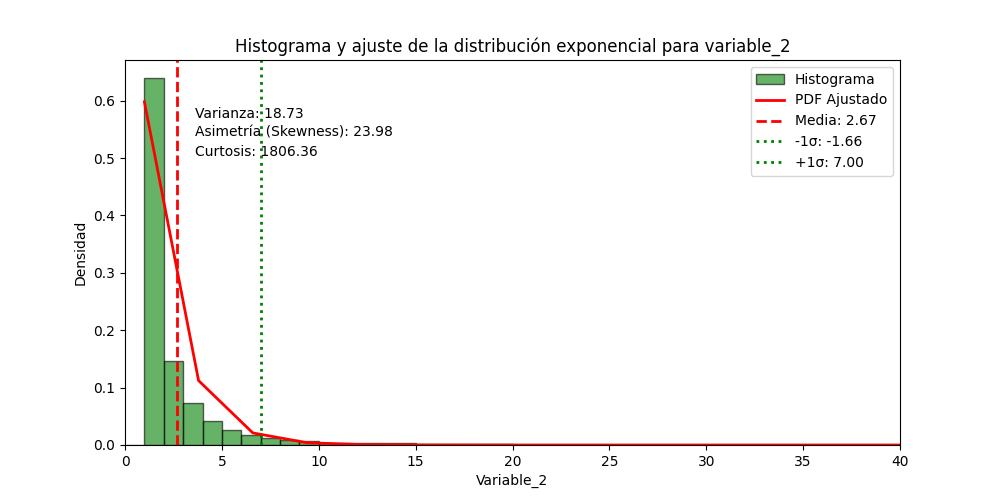
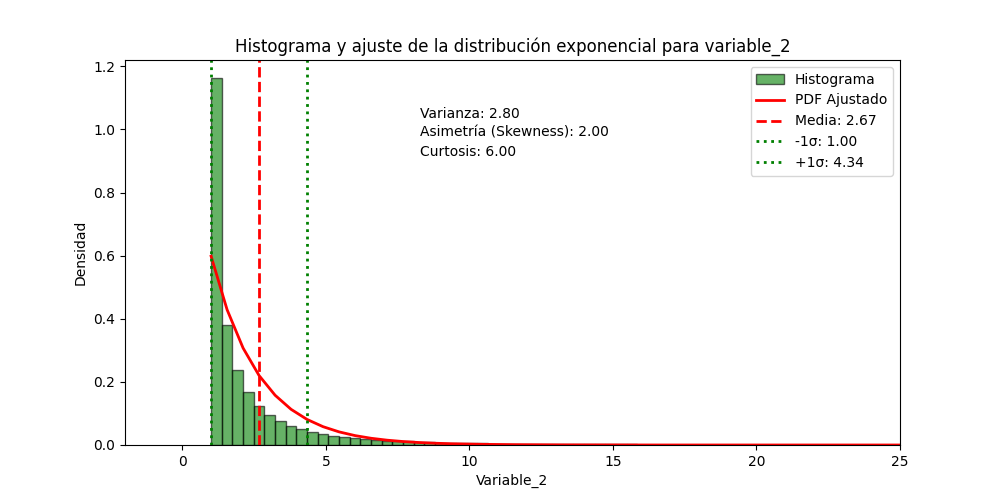
Cambios en el código de momentos

diff --git a/src/momentos.py b/src/momentos.py
@@ -11,21 +11,42 @@ data = pd.read_sql_query("SELECT * FROM test_data", conn)
 
 # 1. Visualizar histograma de variable_1 con marcas de momentos
 def visualizar_histograma_var1():
+    """
+    Genera un histograma de los datos de 'variable_1' con líneas
+    marcando la media y una desviación estándar (por encima y por
+    debajo de la media). Además, guarda la imagen generada en formato PNG.
+
+    Parámetros:
+    -----------
+    Ninguno. Los datos son tomados directamente de la variable 'data' global.
+
+    Salida:
+    -------
+    Muestra un gráfico del histograma de 'variable_1' y guarda la imagen como
+    "src/img/histograma_variable_1_con_momentos.png".
+    """
+
+    # Obtener los datos de variable_1
     variable_1 = data["variable_1"]
-    # Calcular momentos
+
+    # Calcular la media y desviación estándar de los datos
     media = np.mean(variable_1)
     desviacion_estandar = np.std(variable_1)
 
-    plt.figure(figsize=(6, 5))
+    # Crear la figura
+    plt.figure(figsize=(10, 5))
 
-    # Histograma de variable_1
+    # Generar el histograma de variable_1
     plt.hist(
         variable_1,
-        bins=50,
-        density=True,
-        alpha=0.6,
-        color="blue",
-        edgecolor='black')
+        bins=100,           # Número de barras en el histograma
+        density=True,       # Normalización para que el área total sea 1
+        alpha=0.6,          # Transparencia
+        color="blue",       # Color de las barras
+        edgecolor='black'   # Color del borde de las barras
+    )
+
+    # Título y etiquetas del gráfico
     plt.title("Histograma de variable_1")
     plt.xlabel("Variable_1")
     plt.ylabel("Densidad")
@@ -35,6 +56,7 @@ def visualizar_histograma_var1():
         media, color="r", linestyle="dashed", linewidth=2,
         label=f"Media: {media:.2f}"
     )
+
     # Marcar la desviación estándar (una por cada lado de la media)
     plt.axvline(
         media - desviacion_estandar,
@@ -50,32 +72,59 @@ def visualizar_histograma_var1():
     # Añadir la leyenda
     plt.legend()
 
-    # Guardar la imagen del histograma de variable_1
+    # Guardar la imagen generada
     plt.savefig("src/img/histograma_variable_1_con_momentos.png")
+
+    # Mostrar el gráfico
     plt.show()
 
 
-# 2. Visualizar histograma de variable_2 con marcas de momentos
+# 2. Visualizar histograma de variable_2 con ajuste a distribución exponencial
 def visualizar_histograma_var2():
+    """
+    Genera un histograma de los datos de 'variable_2' con un ajuste de
+    distribución exponencial. Marca la media y una desviación estándar
+    (por encima y por debajo de la media).
+    Además, guarda la imagen generada en formato PNG.
+
+    Parámetros:
+    -----------
+    Ninguno. Los datos son tomados directamente de la variable 'data' global.
+
+    Salida:
+    -------
+    Muestra un gráfico del histograma de 'variable_2' y guarda la imagen como
+    "src/img/histograma_variable_2_con_momentos.png".
+    """
+
+    # Obtener los datos de variable_2
     variable_2 = data["variable_2"]
 
-    # Calcular momentos
-    media = np.mean(variable_2)
-    desviacion_estandar = np.std(variable_2)
+    # Ajustar la distribución exponencial a los datos
+    params = expon.fit(variable_2)
 
-    plt.figure(figsize=(6, 5))
-    # Definir los límites de los bins
-    bins = [0, 1, 2, 3, 4, 5, 6, 7, 8, 9, 10, 15, 20, 30]
-    # Histograma de variable_2
+    # Calcular momentos teóricos (media y varianza) de la distribución ajustada
+    media, varianza = expon.stats(*params, moments='mv')
+
+    # Desviación estándar es la raíz cuadrada de la varianza
+    desviacion_estandar = np.sqrt(varianza)
+
+    # Crear la figura
+    plt.figure(figsize=(10, 5))
+
+    # Generar el histograma de variable_2
     plt.hist(
         variable_2,
-        bins=bins,
-        density=True,
-        alpha=0.6,
-        color="green",
-        edgecolor='black')
+        bins=1500,          # Número de barras en el histograma
+        density=True,       # Normalización para que el área total sea 1
+        alpha=0.6,          # Transparencia
+        color="green",      # Color de las barras
+        edgecolor='black'   # Color del borde de las barras
+    )
+
+    # Título y etiquetas del gráfico
     plt.title("Histograma de variable_2")
-    plt.xlim(0, 40)
+    plt.xlim(-2, 25)        # Límite del eje x
     plt.xlabel("Variable_2")
     plt.ylabel("Densidad")
 
@@ -84,7 +133,8 @@ def visualizar_histograma_var2():
         media, color="r", linestyle="dashed", linewidth=2,
         label=f"Media: {media:.2f}"
     )
-    # Marcar la desviación estándar
+
+    # Marcar la desviación estándar (una por cada lado de la media)
     plt.axvline(
         media - desviacion_estandar,
         color="g", linestyle="dotted", linewidth=2,
@@ -99,31 +149,44 @@ def visualizar_histograma_var2():
     # Añadir la leyenda
     plt.legend()
 
-    # Guardar la imagen del histograma de variable_2
+    # Guardar la imagen generada
     plt.savefig("src/img/histograma_variable_2_con_momentos.png")
+
+    # Mostrar el gráfico
     plt.show()
 
 
 # 3. Ajuste de modelos para variable_1 (distribución normal)
 # con marcas de momentos.
 def modelosVar1():
+    """
+    Ajusta un modelo de distribución normal a los datos de variable_1
+    y visualiza un histograma junto con la función de densidad
+    ajustada. Se marcan momentos estadísticos como la media,
+    la desviación estándar, la varianza, la asimetría y la curtosis.
+    """
     variable_1 = data["variable_1"]
+
+    # Ajustar la distribución normal a los datos de variable_1
     params = norm.fit(variable_1)
+
+    # Calcular momentos estadísticos
     media = np.mean(variable_1)
     desviacion_estandar = np.std(variable_1)
     varianza = np.var(variable_1)
     inclinacion = skew(variable_1)
     curtosis = kurtosis(variable_1)
 
+    # Generar un rango de valores x para la función de densidad
     x = np.linspace(variable_1.min(), variable_1.max(), 200)
 
-    # Se obtiene el ajuste
+    # Se obtiene la PDF ajustada para la distribución normal
     pdf = norm.pdf(x, *params)
 
-    # Gráfico del histograma y el ajuste PDF
+    # Gráfico del histograma y la PDF ajustada
     plt.figure(figsize=(10, 5))
     plt.hist(
-        variable_1, bins=50, density=True, alpha=0.6,
+        variable_1, bins=100, density=True, alpha=0.6,
         color="blue", label="Histograma", edgecolor="black"
     )
     plt.plot(x, pdf, "r-", lw=2, label="PDF Ajustado")
@@ -144,7 +207,7 @@ def modelosVar1():
         label=f"+1σ: {media + desviacion_estandar:.2f}"
     )
 
-    # Añadir información de varianza, inclinación y curtosis
+    # Añadir información de varianza, inclinación y curtosis al gráfico
     plt.text(
         0.05, 0.85, f"Varianza: {varianza:.2f}",
         transform=plt.gca().transAxes, fontsize=10
@@ -158,6 +221,7 @@ def modelosVar1():
         transform=plt.gca().transAxes, fontsize=10
     )
 
+    # Añadir título y etiquetas a los ejes
     plt.title("Histograma y ajuste de la distribución normal para variable_1")
     plt.xlabel("Variable_1")
     plt.ylabel("Densidad")
@@ -171,29 +235,39 @@ def modelosVar1():
 # 4. Ajuste de modelos para variable_2 (distribución exponencial)
 # con marcas de momentos.
 def modelosVar2():
+    """
+    Ajusta un modelo de distribución exponencial a los datos de variable_2
+    y visualiza un histograma junto con la función de densidad
+    ajustada. Se marcan momentos estadísticos como la media,
+    la desviación estándar, la varianza, la asimetría y la curtosis.
+    """
     variable_2 = data["variable_2"]
-    params = expon.fit(variable_2)
-    media = np.mean(variable_2)
-    desviacion_estandar = np.std(variable_2)
-    varianza = np.var(variable_2)
-    inclinacion = skew(variable_2)
-    curtosis = kurtosis(variable_2)
 
-    x = np.linspace(variable_2.min(), variable_2.max(), 200)
-    # Se obtiene el ajuste
+    # Ajustar la distribución exponencial a los datos
+    params = expon.fit(variable_2)
+
+    # Cálculos de los momentos teóricos a partir de la distribución ajustada
+    media, varianza, inclinacion, curtosis = expon.stats(
+        *params, moments='mvsk'
+    )
+
+    # Desviación estándar es la raíz cuadrada de la varianza
+    desviacion_estandar = np.sqrt(varianza)
+
+    # Definir los valores x para graficar la PDF ajustada
+    x = np.linspace(variable_2.min(), variable_2.max(), 1000)
+    # Se obtiene la PDF ajustada
     pdf = expon.pdf(x, *params)
 
-    # Gráfico del histograma y el ajuste PDF
-    # Definir los límites de los bins
-    bins = [0, 1, 2, 3, 4, 5, 6, 7, 8, 9, 10, 15, 20, 30]
+    # Gráfico del histograma y el ajuste de la PDF
     plt.figure(figsize=(10, 5))
     plt.hist(
-        variable_2, bins=bins, density=True, alpha=0.6,
+        variable_2, bins=1500, density=True, alpha=0.6,
         color="green", label="Histograma", edgecolor="black"
     )
     plt.plot(x, pdf, "r-", lw=2, label="PDF Ajustado")
 
-    # Marcar la media y la desviación estándar
+    # Marcar la media y la desviación estándar en el gráfico
     plt.axvline(
         media, color="r", linestyle="dashed", linewidth=2,
         label=f"Media: {media:.2f}"
@@ -209,25 +283,26 @@ def modelosVar2():
         label=f"+1σ: {media + desviacion_estandar:.2f}"
     )
 
-    # Añadir información de varianza, inclinación y curtosis
+    # Añadir información de varianza, inclinación y curtosis en el gráfico
     plt.text(
-        0.09, 0.85, f"Varianza: {varianza:.2f}",
+        0.38, 0.85, f"Varianza: {varianza:.2f}",
         transform=plt.gca().transAxes, fontsize=10
     )
     plt.text(
-        0.09, 0.80, f"Asimetría (Skewness): {inclinacion:.2f}",
+        0.38, 0.80, f"Asimetría (Skewness): {inclinacion:.2f}",
         transform=plt.gca().transAxes, fontsize=10
     )
     plt.text(
-        0.09, 0.75, f"Curtosis: {curtosis:.2f}",
+        0.38, 0.75, f"Curtosis: {curtosis:.2f}",
         transform=plt.gca().transAxes, fontsize=10
     )
 
+    # Añadir título y etiquetas a los ejes
     plt.title(
         "Histograma y ajuste de la distribución"
         " exponencial para variable_2"
     )
-    plt.xlim(0, 40)
+    plt.xlim(-2, 25)
     plt.xlabel("Variable_2")
     plt.ylabel("Densidad")
     plt.legend()
@@ -239,13 +314,24 @@ def modelosVar2():
 
 # 5. Calcular momentos (promedio, varianza,
 # desviación estándar, inclinación, kurtosis)
-def calcular_momentos(variable, nombre_variable):
+def calcular_momentos_var1(variable, nombre_variable):
+    """
+    Calcula y muestra los momentos estadísticos (media, varianza,
+    desviación estándar, asimetría y curtosis) de una variable dada.
+
+    Parameters:
+    variable: array-like
+        Datos de la variable para calcular los momentos.
+    nombre_variable: str
+        Nombre de la variable, utilizado para la salida en consola.
+    """
     media = np.mean(variable)
     varianza = np.var(variable)
     desviacion_estandar = np.std(variable)
     inclinacion = skew(variable)
     curtosis = kurtosis(variable)
 
+    # Imprimir los momentos calculados
     print(f"Momentos de {nombre_variable}:")
     print(f"Media: {media}")
     print(f"Varianza: {varianza}")
@@ -254,15 +340,64 @@ def calcular_momentos(variable, nombre_variable):
     print(f"Curtosis: {curtosis}\n")
 
 
-# 6. Ejecutar todo el programa
+# 6. Calcular momentos (promedio, varianza,
+# desviación estándar, inclinación, kurtosis)
+# para una distribución exponencial ajustada.
+def calcular_momentos_var2(variable, nombre_variable):
+    """
+    Calcula y muestra los momentos estadísticos (media, varianza,
+    desviación estándar, asimetría y curtosis) de una variable dada,
+    asumiendo que se ajusta a una distribución exponencial.
+
+    Parameters:
+    variable: array-like
+        Datos de la variable para calcular los momentos.
+    nombre_variable: str
+        Nombre de la variable, utilizado para la salida en consola.
+    """
+    # Ajustar la distribución exponencial a los datos
+    params = expon.fit(variable)
+
+    # Obtener los momentos de la distribución exponencial ajustada
+    media, varianza, inclinacion, curtosis = expon.stats(
+        *params, moments='mvsk'
+    )
+
+    # Desviación estándar es la raíz cuadrada de la varianza
+    desviacion_estandar = np.sqrt(varianza)
+
+    # Imprimir los resultados
+    print(f"Momentos de {nombre_variable} (Distribución Exponencial):")
+    print(f"Media: {media}")
+    print(f"Varianza: {varianza}")
+    print(f"Desviación estándar: {desviacion_estandar}")
+    print(f"Asimetría (Skewness): {inclinacion}")
+    print(f"Curtosis: {curtosis}\n")
+
+
+# 7. Ejecutar todo el programa
 if __name__ == "__main__":
-    visualizar_histograma_var1()  # Generar y guardar histograma de variable_1
-    visualizar_histograma_var2()  # Generar y guardar histograma de variable_2
+    """
+    Este bloque se ejecuta si el script se ejecuta como un programa principal.
+    Se generan histogramas y se calculan momentos estadísticos para las
+    variables de interés. También se ajustan modelos a las distribuciones de
+    las variables.
+    """
 
-    # Calcular y mostrar momentos
-    calcular_momentos(data["variable_1"], "Variable_1")
-    calcular_momentos(data["variable_2"], "Variable_2")
+    # Generar y guardar el histograma para la variable_1
+    visualizar_histograma_var1()
 
-    # Calcular y mostrar momentos
-    modelosVar1()  # Generar y guardar ajuste sobre histograma de variable_1
-    modelosVar2()  # Generar y guardar ajuste sobre histograma de variable_2
+    # Generar y guardar el histograma para la variable_2
+    visualizar_histograma_var2()
+
+    # Calcular y mostrar momentos estadísticos para variable_1
+    calcular_momentos_var1(data["variable_1"], "Variable_1")
+
+    # Calcular y mostrar momentos estadísticos para variable_2
+    calcular_momentos_var2(data["variable_2"], "Variable_2")
+
+    # Ajustar modelos de distribución y generar gráficos para variable_1
+    modelosVar1()
+
+    # Ajustar modelos de distribución y generar gráficos para variable_2
+    modelosVar2()
